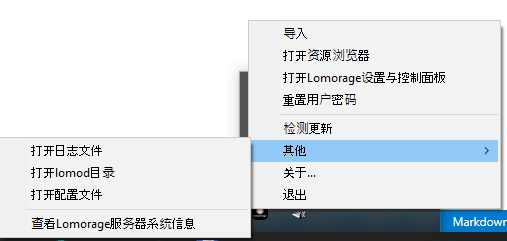
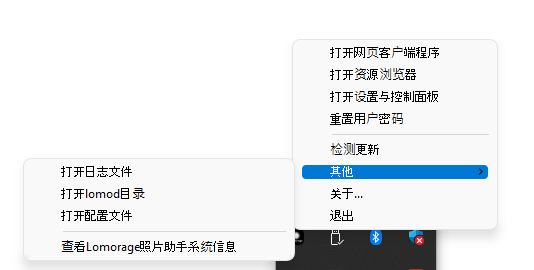
update zh msi

Changed region(s): [[0.0, 0.0871, 1.0, 1.0], [0.503, 0.0581, 0.9763, 0.0871], [0.5621, 0.1162, 0.5917, 0.1743]]

diff --git a/content.zh/docs/Installation/lomorage-service/installation-win.md b/content.zh/docs/Installation/lomorage-service/installation-win.md
@@ -12,18 +12,16 @@ weight: 4
 ## 1. 点击下面的链接安装"Lomorage照片助手"程序。
 
 <p align="center">
-<a href="https://lomosw.lomorage.com/windows/LomoAgent.msi"><b>点击下载 ==></b></a>
-<a href="https://lomosw.lomorage.com/windows/LomoAgent.msi" title="Install Lomorage for Windows" class="badge windows">Windows</a>
+<a href="https://lomosw.lomorage.com/windows/zh/LomoAgent.msi"><b>点击下载 ==></b></a>
+<a href="https://lomosw.lomorage.com/windows/zh/LomoAgent.msi" title="Install Lomorage for Windows" class="badge windows">Windows</a>
 </p>
 
-**如果上面链接无法访问，也可以点击[这里下载](https://aisnote.com/lomoagent.msi)**
+**如果上面链接无法访问，也可以点击[这里下载](https://aisnote.com/lomorage/zh/lomoagent.msi)**
 
 ## 2. 双击"lomoagent.msi"开始安装。如果有Windows Defender提示未知应用，请参考如下步骤允许安装程序运行。
-
 <div align="center">
 <p class="screenshoot">
-  <img width="50%" src="/img/installation/windows-defender-1.png">
-  <img width="50%" src="/img/installation/windows-defender-2.png">
+  <img width="80%" src="/img/installation/windows/zh/windows-install-1.png">
 </p>
 </div>
 
@@ -31,9 +29,8 @@ weight: 4
 
 <div align="center">
 <p class="screenshoot">
-  <img width="50%" src="/img/installation/windows-install-1.png">
-  <img width="50%" src="/img/installation/windows-install-2.png">
-  <img width="50%" src="/img/installation/windows-install-3.png">
+  <img width="80%" src="/img/installation/windows/zh/windows-install-2.png">
+  <img width="80%" src="/img/installation/windows/zh/windows-install-3.png">
 </p>
 </div>
 
@@ -49,12 +46,12 @@ weight: 4
 
 <div align="center">
 <p class="screenshoot">
-  <img width="80%" src="/img/installation/windows-lomo-agent-zh.png">
+  <img width="100%" src="/img/installation/windows-lomo-agent-zh.png">
 </p>
 </div>
 
 
-## 6. 可以点击托盘图标右键菜单，选择“导入” 可以打开网页客户端进行导入和浏览您已经备份的照片！
+## 6. 可以点击托盘图标右键菜单，选择“打开网页客户端程序” 启动网页客户端进行导入和浏览您已经备份的照片！
 
 ## 7. 重置用户密码
 托盘右键菜单，选择 “重置用户密码”，按照界面提示操作。
